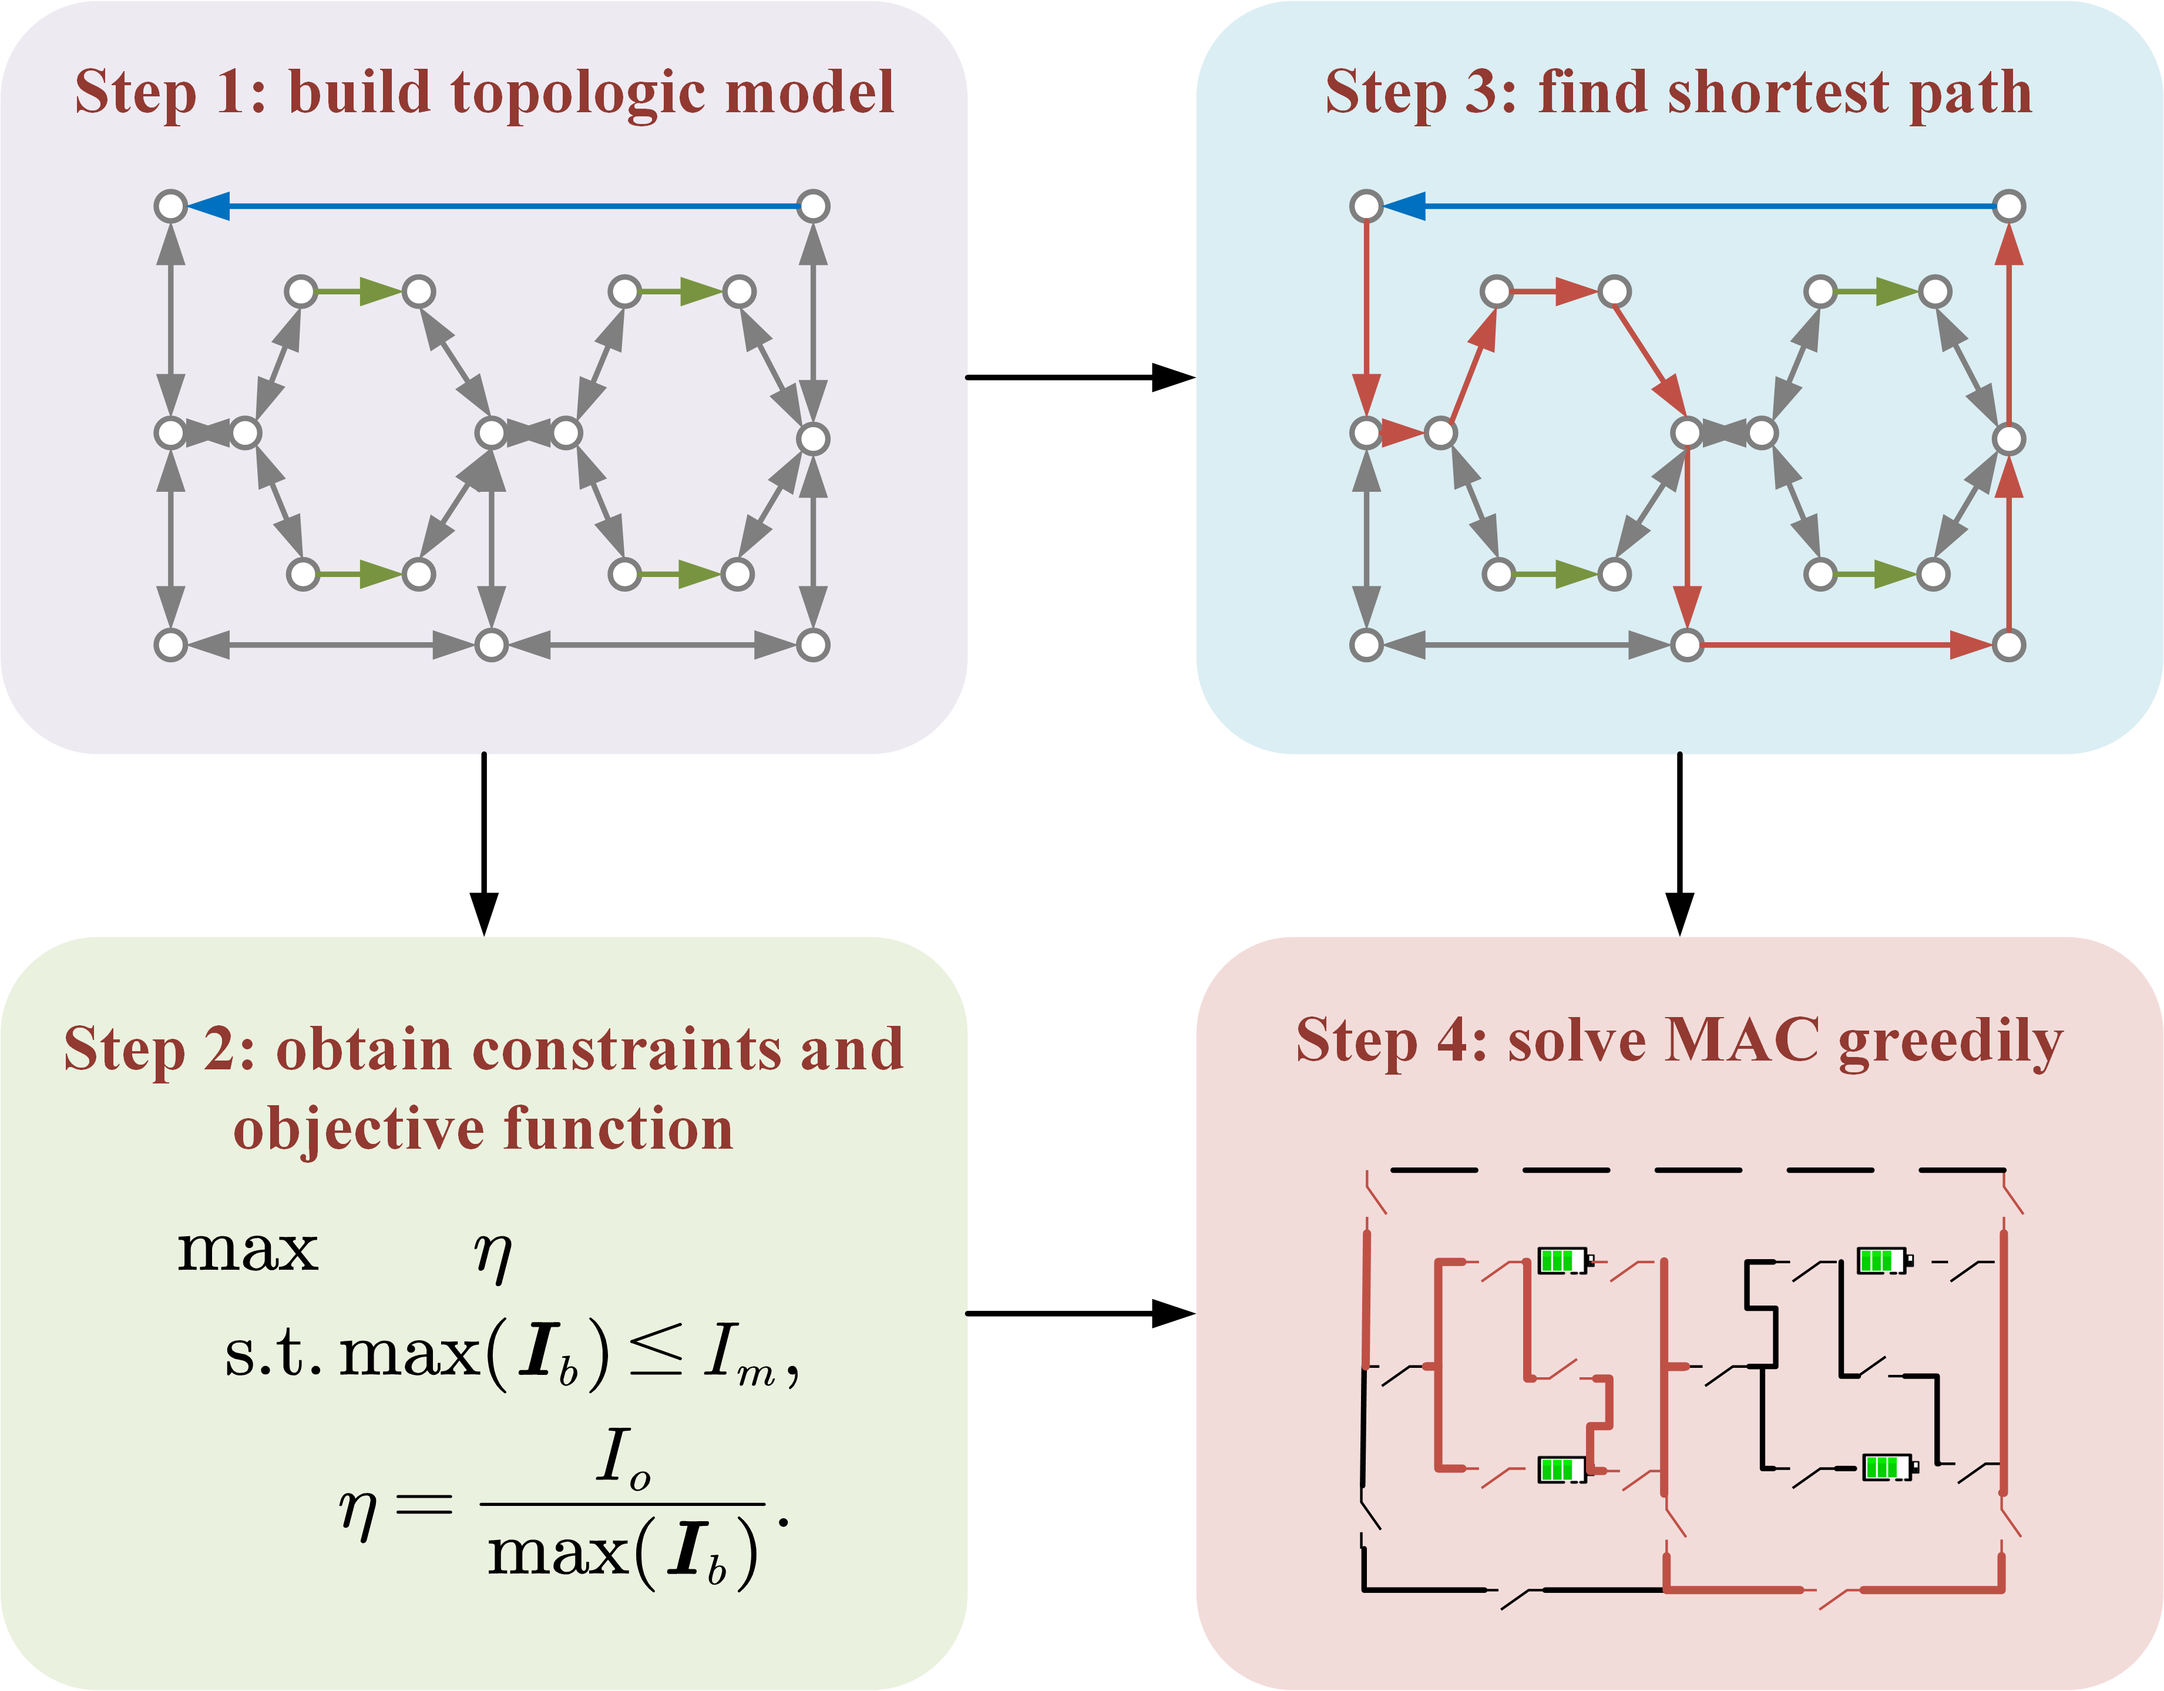
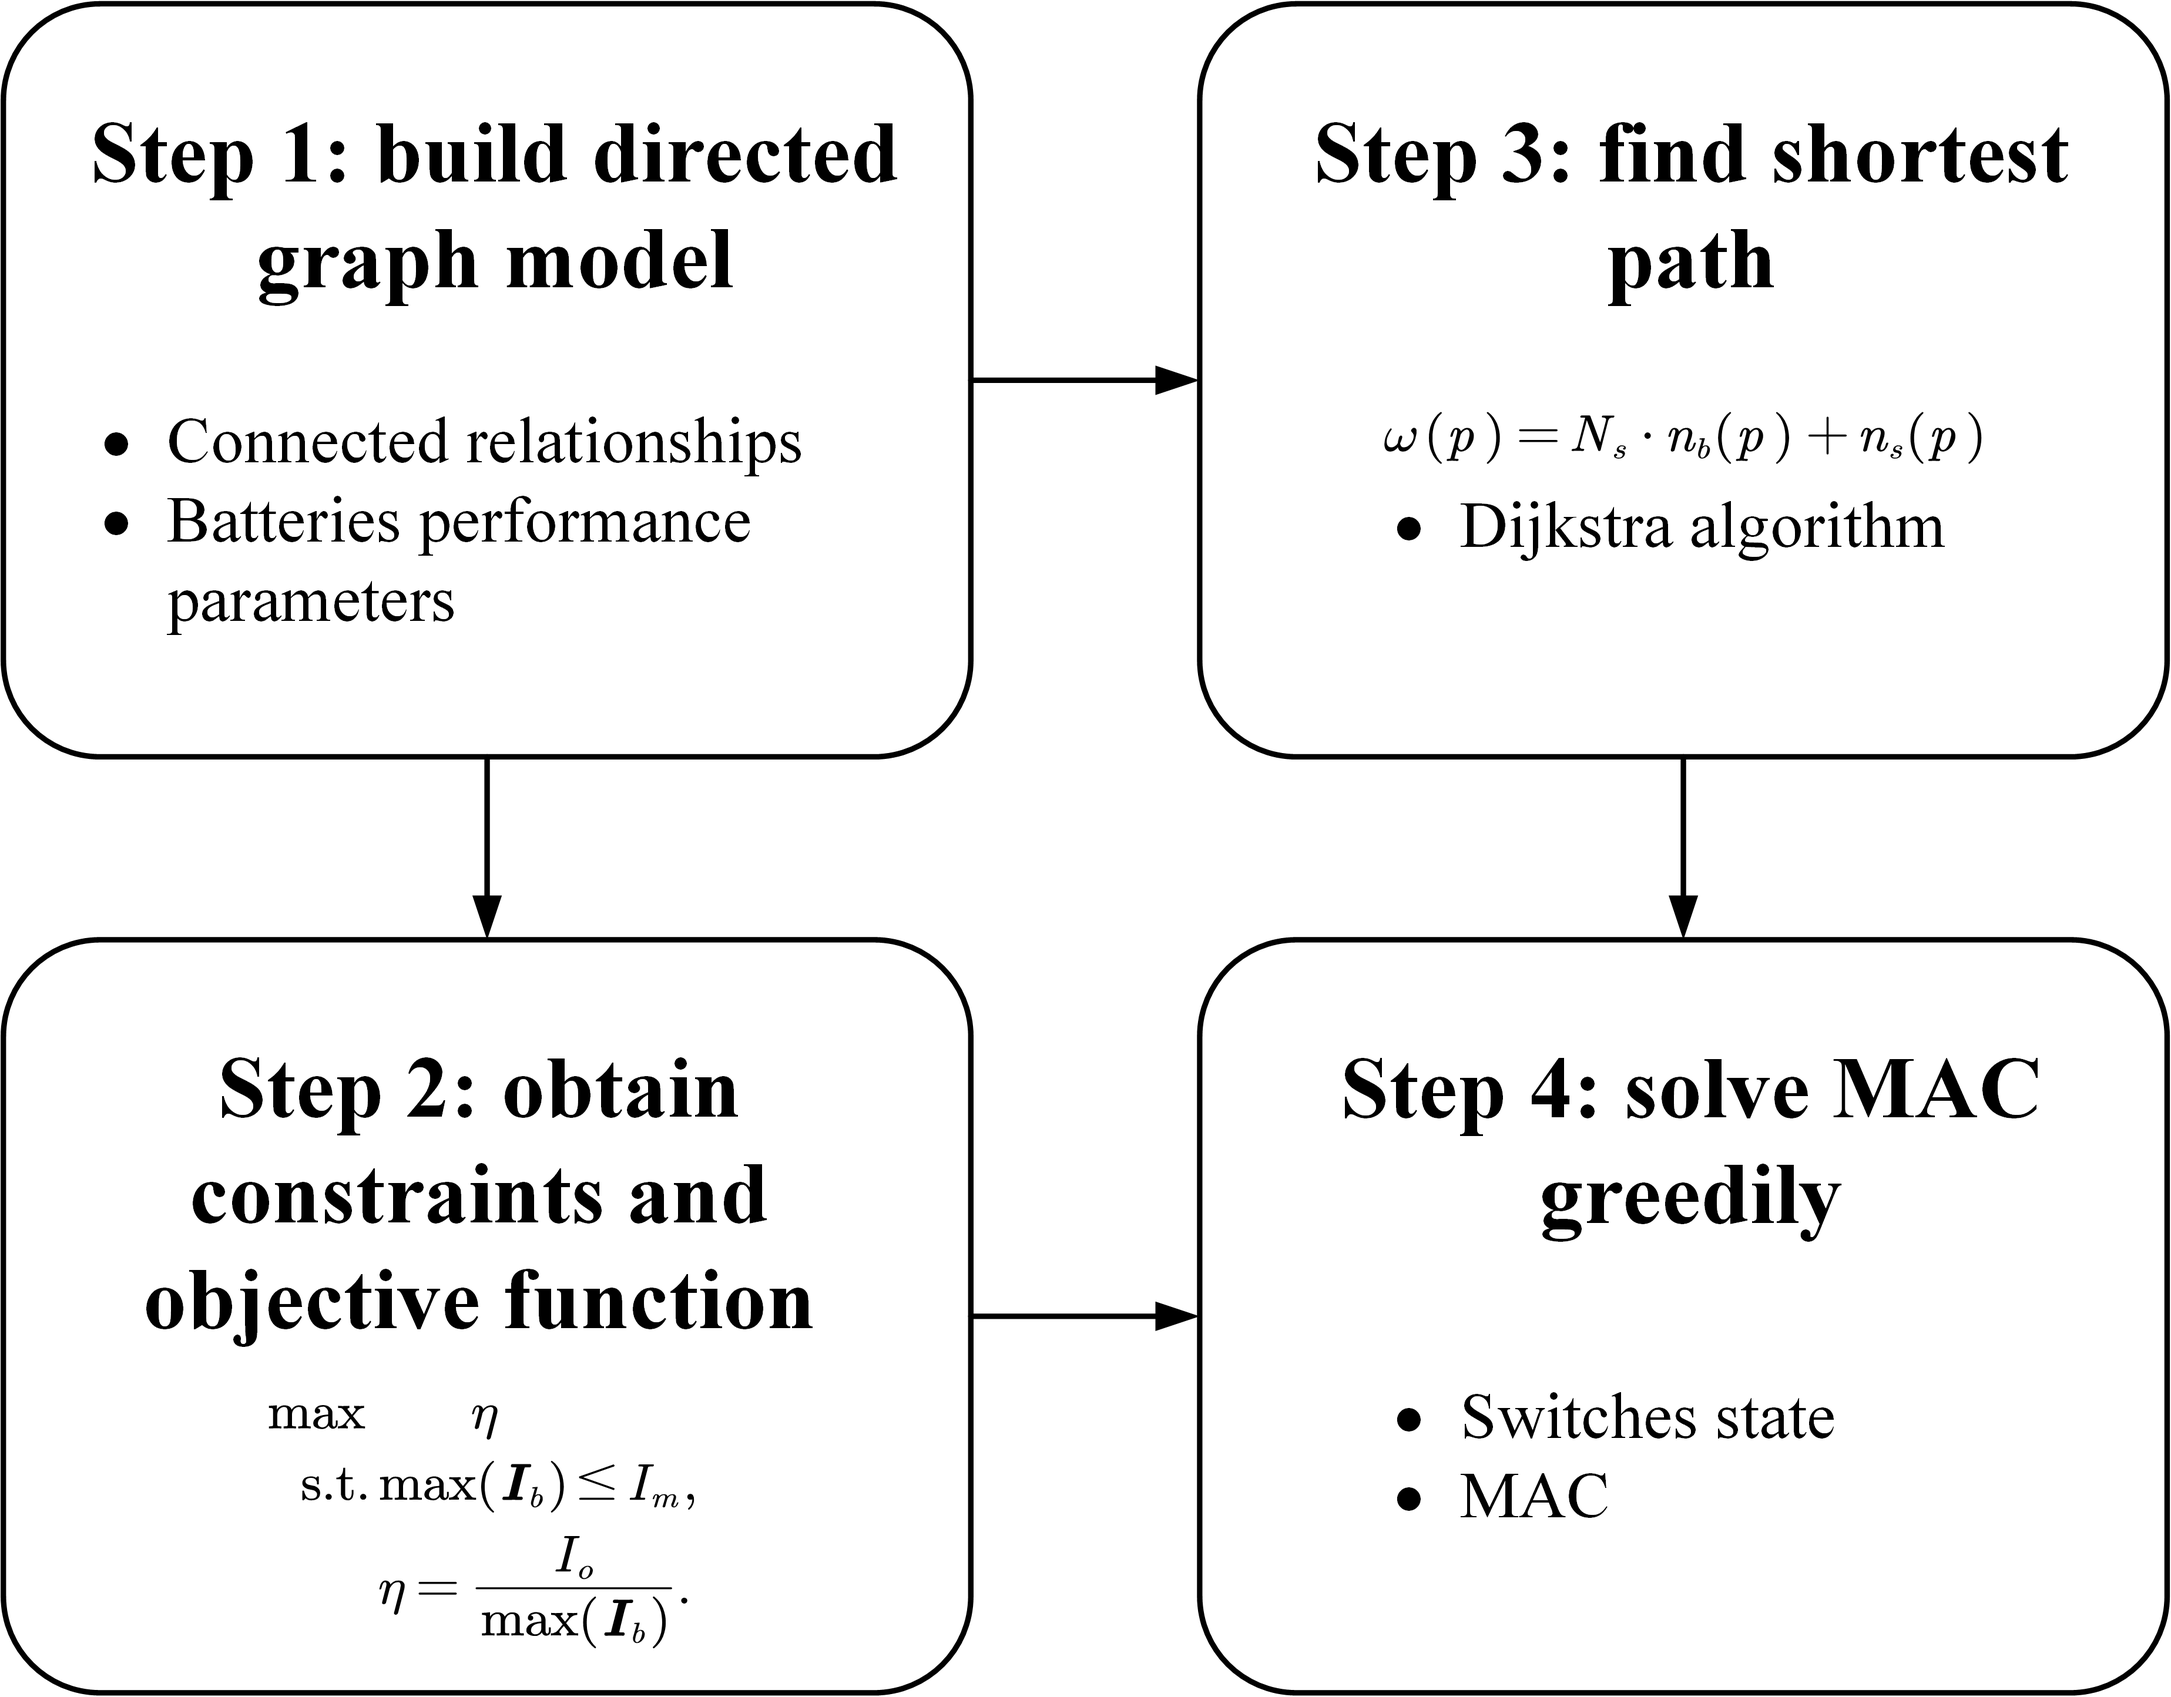
修改了方法部分的hat和main.png

diff --git a/paper/main.tex b/paper/main.tex
@@ -33,8 +33,7 @@
 % 统一用 electrical load 而非 electrical appliance (泛指家电)
 
 % magic
-% 你将扮演一位英文学术写作经验丰富的大学老师，指导一位非英文母语的学生完成并改进他的论文。 你的目标是帮助他写出一篇流畅、清晰、易读、符合规范的英文学术论文。 他会向你用中文说明自己想表达的内容，有时还会给你一些不完整的英文句子让你补充完整。你不应该逐字翻译他的内容，你需要和他经过多次的沟通，以确定最好的表达。 注意，你们交流的内容可能包含latex语法，你需要理解并使用；当你形成完整的句子或段落时，你要将这些句子或段落放在```和```之间，即 ```some sentence ```。
-\end{lstlisting}
+% 你将扮演一位英文学术写作经验丰富的大学老师，指导一位非英文母语的学生完成并改进他的论文。 你的目标是帮助他写出一篇流畅、清晰、易读、符合规范的英文学术论文。 他会向你用中文说明自己想表达的内容，有时还会给你一些不完整的英文句子让你补充完整。你不应该逐字翻译他的内容，你需要和他经过多次的沟通，以确定最好的表达。 注意，你们交流的内容可能包含latex语法，你需要理解并使用；当你形成完整的句子或段落时，你要将这些句子或段落放在```和```之间，即 ```some sentence ```，其中每写完一句话都要换行。
 
 \documentclass{article}
 \usepackage{graphicx}
@@ -127,17 +126,12 @@ Finally, the concluding remarks are drawn in Section IV.
 
 \section{Methodology}
 
-The overall MAC modeling process based on an RBS is shown in Fig. \ref{fig:main}, which can be divided into four main steps.
-In the first place, the actual switching circuit typology of the RBS is converted to a directed graph model, in which the connected relationships between batteries and switches are described by nodes and the performance parameters of the batteries are retained.
-Subsequently, the allowable current of the RBS is regarded as an objective function to be obtained based on the previous connected relationships and parameters.
-Then, the shortest path (SP) of each battery in the RBS is obtained by Dijkstra algorithm.
-In the end, an optimized switching circuit strategy of the RBS is implemented by greedily selecting the SPs to achieve MAC and quantitatively calculated in the equivalent circuit.
-% 问题出在 要用最简短、读者能接受的话描述清楚方法
-% 重写上面一段，注意描述方法时的逻辑性
-
-
-
-% main 主图只保留文字
+The central principle of this method is to make the batteries in RBS connected in series as much as possible, thereby maximizing the output current of the RBS.
+To universally and automatically achieve this, the overall process is divided into four steps, as shown in Fig. \ref{fig:main}.
+Firstly, a directed graph model is established for subsequent computing, which not only contains the connected relationships between batteries and switches, but also retains the performance parameters of the batteries.
+Subsequently, based on the equivalent circuit, the MAC problem is transformed into specific objective functions and constraints.
+Then, the shortest paths (SPs, where additional batteries and switches on the path are penalized as distance) for the batteries are obtained using the Dijkstra algorithm to guide the batteries in the RBS connect in series.
+Finally, a greedy algorithm is employed to organize the switches, allowing the batteries to connect via their SPs while satisfying the constraints, resulting in the MAC of the RBS.
 
 \begin{figure}[htbp]
     \centering
@@ -153,13 +147,9 @@ In the end, an optimized switching circuit strategy of the RBS is implemented by
         \label{fig:battery_simple}
     \end{subfigure}
     % caption 简写
-    \caption{ (a)Diagram of this method, which contains four main steps.
-        Step 1: The RBS structure is converted to a topologic model.
-        Step 2: Constraints and objective function are obtained based on the previous topologic model.
-        Step 3: The shortest path of each battery in the RBS is obtained by Dijkstra algorithm.
-        Step 4: The MAC is achieved by greedily selecting the shortest paths to open/close switches.
-        (b) The equivalent circuit of a battery in this method, with $u_{b,i}$ and $r_{b,i}$ representing the voltage and internal resistance of the battery $i$ respectively.
-        The capacitor in Thevenin model is ignored.
+    \caption{ 
+        (a)Diagram of this method, which contains four main steps.
+        (b) The equivalent circuit of a battery in this method.
     }
 \end{figure}
 
